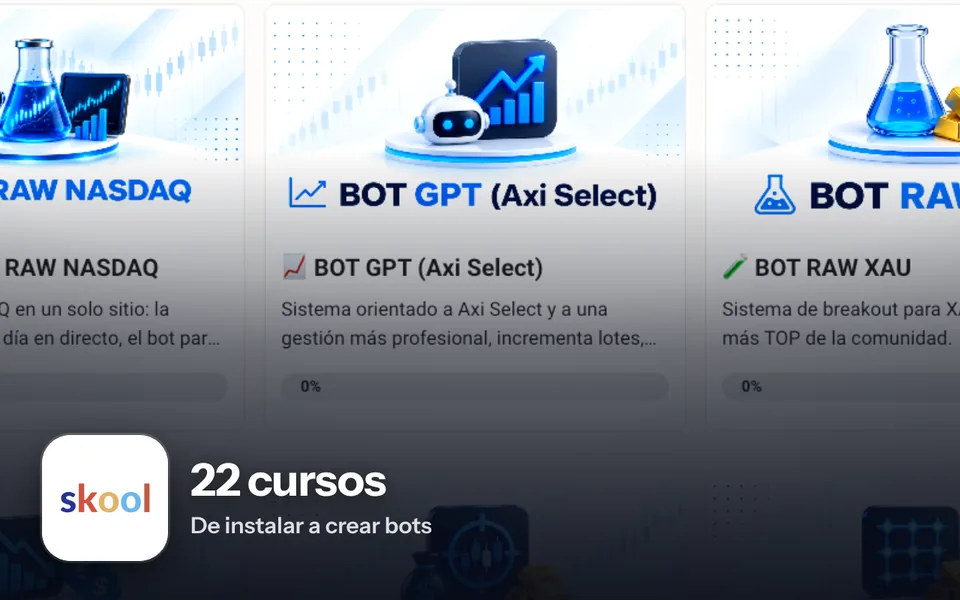
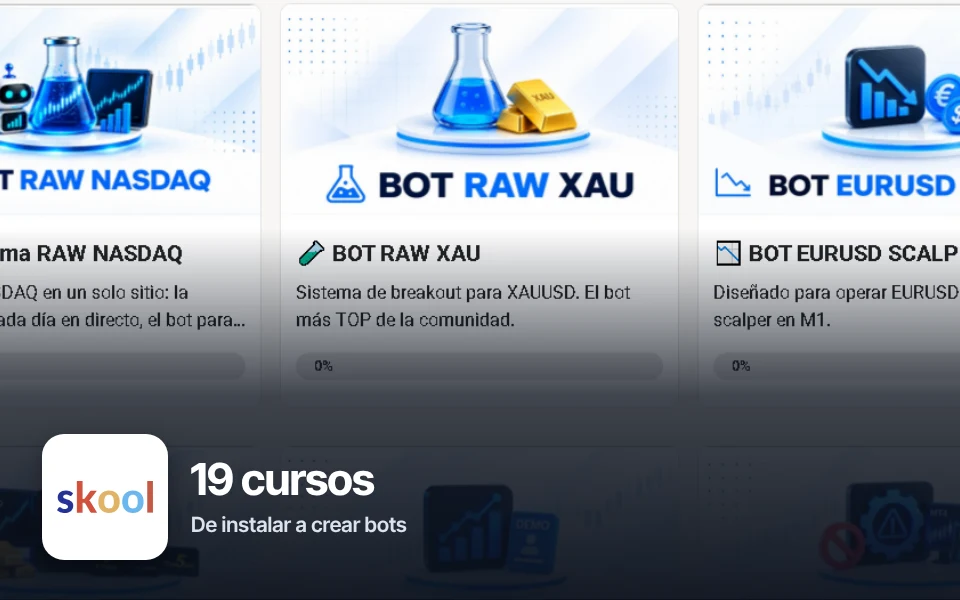
PRO: banda grande de Black Friday con cuenta atrás (solo 27–30/11); fuera BOT GPT, Grid y Sniper XAU; 7 bots y 19 cursos; tiles del aula actualizados
Claude-Session: https://claude.ai/code/session_01N3245zAzv1nKu82VpYEjgd

diff --git a/pro/index.html b/pro/index.html
@@ -4,7 +4,7 @@
     <meta charset="UTF-8">
     <meta name="viewport" content="width=device-width, initial-scale=1, viewport-fit=cover">
     <title>nico66fx PRO · Bots de trading para MetaTrader</title>
-    <meta name="description" content="Bots para MT4 y MT5 con su backtest y su manual, RAW NASDAQ PRO LIVE en directo, herramientas de análisis, 22 cursos y una comunidad privada en Skool. Sistemas automatizados reales.">
+    <meta name="description" content="Bots para MT4 y MT5 con su backtest y su manual, RAW NASDAQ PRO LIVE en directo, herramientas de análisis, 19 cursos y una comunidad privada en Skool. Sistemas automatizados reales.">
     <meta name="robots" content="index,follow">
     <link rel="canonical" href="https://nico66fx.com/pro/">
     <meta property="og:site_name" content="nico66fx PRO">
@@ -32,8 +32,8 @@
 
     <link rel="stylesheet" href="assets/v2.css">
     <link rel="stylesheet" href="assets/v3.css">
-    <link rel="stylesheet" href="assets/v4.css?v=bf1">
-    <script src="assets/v4.js?v=bf1" defer></script>
+    <link rel="stylesheet" href="assets/v4.css?v=bf2">
+    <script src="assets/v4.js?v=bf2" defer></script>
     <script src="assets/v2.js" defer></script>
     <!-- la foto del hero es lo primero que se ve: se pide cuanto antes -->
     <link rel="preload" as="image" href="assets/proto/live_grafico.webp" type="image/webp">
@@ -64,7 +64,7 @@
       "name": "¿Qué diferencia hay entre LITE y PRO?",
       "acceptedAnswer": {
         "@type": "Answer",
-        "text": "LITE es gratis: la comunidad abierta, el indicador RAW NASDAQ LITE para TradingView y la web RAW NASDAQ LITE LIVE con la compra o venta del día, la entrada y el historial en puntos. PRO incluye todo eso y además los bots para MT4 y MT5, RAW NASDAQ PRO LIVE con la gestión completa, los 22 cursos, las herramientas y el soporte por privado."
+        "text": "LITE es gratis: la comunidad abierta, el indicador RAW NASDAQ LITE para TradingView y la web RAW NASDAQ LITE LIVE con la compra o venta del día, la entrada y el historial en puntos. PRO incluye todo eso y además los bots para MT4 y MT5, RAW NASDAQ PRO LIVE con la gestión completa, los 19 cursos, las herramientas y el soporte por privado."
       }
     },
     {
@@ -281,6 +281,19 @@
 
     <main id="contenido" tabindex="-1">
 
+        <!-- Banda Black Friday: solo se ve del 27/11 00:00 al 30/11 23:59 (html[data-precios="bf"], lo pone v4.js) -->
+        <section class="bfband" data-solo="bf" aria-label="Black Friday">
+            <div class="wrap bfband__in">
+                <p class="bfband__k">Black Friday&nbsp;· hasta el lunes 30 a las 23:59</p>
+                <p class="bfband__t"><span class="bfband__p">Anual <s>199&nbsp;€</s> <strong>149&nbsp;€</strong></span><span class="bfband__p">De por vida <s>349&nbsp;€</s> <strong>249&nbsp;€</strong></span></p>
+                <p class="bfband__s">El anual, con el precio congelado mientras sigas. El de por vida, con llamada 1&nbsp;a&nbsp;1 conmigo para dejarlo todo montado. Plazas limitadas.</p>
+                <div class="bfband__cta">
+                    <a class="btn btn-primary btn--lg" href="#precio" data-evt="pro_hero_click" data-evt-cta="bf_banda">Ver planes del Black Friday</a>
+                    <span class="bfband__cd" data-bf-cd aria-live="off"></span>
+                </div>
+            </div>
+        </section>
+
         <!-- A · HERO v5: órbita con todo lo que incluye PRO, alrededor de un solo acceso -->
         <section id="inicio" class="hero hero--v5" aria-labelledby="titulo" data-evt-view="pro_page_view">
             <div class="wrap hero5">
@@ -294,7 +307,7 @@
                     </p>
                     <p class="eyebrow">nico66fx PRO</p>
                     <h1 id="titulo">Mis bots de trading, <span>listos para tu MetaTrader.</span></h1>
-                    <p class="hero__sub">Descargas los bots que he creado yo, cada uno con su manual y su vídeo de instalación. Y además tienes la web en directo de RAW NASDAQ, indicadores, 22 cursos (también para crear tus propios bots) y la comunidad en Skool.</p>
+                    <p class="hero__sub">Descargas los bots que he creado yo, cada uno con su manual y su vídeo de instalación. Y además tienes la web en directo de RAW NASDAQ, indicadores, 19 cursos (también para crear tus propios bots) y la comunidad en Skool.</p>
                     <div class="hero4__cta">
                         <a href="#precio" class="btn btn-primary btn--lg" data-evt="pro_hero_click" data-evt-cta="planes">Ver planes <svg class="ico" aria-hidden="true"><use href="#i-abajo"/></svg></a>
                         <a href="#productos" class="btn btn-secondary btn--lg" data-evt="pro_hero_click" data-evt-cta="bots">Ver los bots</a>
@@ -315,12 +328,12 @@
                         <span>un solo acceso</span>
                     </div>
                     <ul class="orbita__nodos">
-                        <li style="--a:-90deg"><a class="nodo nodo--fuerte" href="#productos"><span class="nodo__ico"><svg class="ico" aria-hidden="true"><use href="#i-bot"/></svg></span><span class="nodo__t">10 bots listos</span><span class="nodo__d">MT4 y MT5</span></a></li>
+                        <li style="--a:-90deg"><a class="nodo nodo--fuerte" href="#productos"><span class="nodo__ico"><svg class="ico" aria-hidden="true"><use href="#i-bot"/></svg></span><span class="nodo__t">7 bots listos</span><span class="nodo__d">MT4 y MT5</span></a></li>
                         <li style="--a:-45deg"><a class="nodo nodo--live" href="#live"><span class="nodo__ico"><svg class="ico" aria-hidden="true"><use href="#i-pulso"/></svg></span><span class="nodo__t">PRO LIVE</span><span class="nodo__d">El Nasdaq en directo</span></a></li>
                         <li style="--a:0deg"><a class="nodo" href="#ecosistema"><span class="nodo__ico"><svg class="ico" aria-hidden="true"><use href="#i-velas"/></svg></span><span class="nodo__t">Indicadores</span><span class="nodo__d">TradingView</span></a></li>
                         <li style="--a:45deg"><a class="nodo" href="../tools/"><span class="nodo__ico"><svg class="ico" aria-hidden="true"><use href="#i-medidor"/></svg></span><span class="nodo__t">Herramientas</span><span class="nodo__d">Para analizar backtests</span></a></li>
                         <li style="--a:90deg"><a class="nodo" href="#comunidad"><span class="nodo__ico"><svg class="ico" aria-hidden="true"><use href="#i-usuarios"/></svg></span><span class="nodo__t">Comunidad</span><span class="nodo__d">250 en Skool</span></a></li>
-                        <li style="--a:135deg"><a class="nodo" href="#ecosistema"><span class="nodo__ico"><svg class="ico" aria-hidden="true"><use href="#i-birrete"/></svg></span><span class="nodo__t">22 cursos</span><span class="nodo__d">De instalar a crear bots</span></a></li>
+                        <li style="--a:135deg"><a class="nodo" href="#ecosistema"><span class="nodo__ico"><svg class="ico" aria-hidden="true"><use href="#i-birrete"/></svg></span><span class="nodo__t">19 cursos</span><span class="nodo__d">De instalar a crear bots</span></a></li>
                         <li style="--a:180deg"><a class="nodo" href="fondeo/"><span class="nodo__ico"><svg class="ico" aria-hidden="true"><use href="#i-escudo"/></svg></span><span class="nodo__t">Fondeo</span><span class="nodo__d">Bot para cuentas de fondeo</span></a></li>
                         <li style="--a:225deg"><a class="nodo" href="helios/"><span class="nodo__ico"><svg class="ico" aria-hidden="true"><use href="#i-capas"/></svg></span><span class="nodo__t">Cartera HELIOS</span><span class="nodo__d">10 estrategias en un bot</span></a></li>
                     </ul>
@@ -330,10 +343,10 @@
             <!-- Así se ve por dentro: capturas reales de cada pieza -->
             <div class="wrap">
                 <ul class="dentro dentro--tiles" aria-label="Lo que tienes dentro de PRO">
-                    <li><a href="#productos"><img class="tile16" src="assets/proto/tiles/bots.webp" width="960" height="600" loading="lazy" decoding="async" alt="Bot RAW NASDAQ funcionando en MetaTrader 5"><span class="dentro__t">10 bots hechos por mí, para descargar</span></a></li>
+                    <li><a href="#productos"><img class="tile16" src="assets/proto/tiles/bots.webp" width="960" height="600" loading="lazy" decoding="async" alt="Bot RAW NASDAQ funcionando en MetaTrader 5"><span class="dentro__t">7 bots hechos por mí, para descargar</span></a></li>
                     <li><a href="#live"><img class="tile16" src="assets/proto/tiles/live.webp" width="960" height="600" loading="lazy" decoding="async" alt="RAW NASDAQ PRO LIVE: la operación del Nasdaq en directo"><span class="dentro__t">La operación del Nasdaq, en directo</span></a></li>
                     <li><a href="#ecosistema"><img class="tile16" src="assets/proto/tiles/tv.webp" width="960" height="600" loading="lazy" decoding="async" alt="Indicadores de nico66fx en TradingView"><span class="dentro__t">Indicadores para TradingView</span></a></li>
-                    <li><a href="#ecosistema"><img class="tile16" src="assets/proto/tiles/cursos.webp" width="960" height="600" loading="lazy" decoding="async" alt="El aula de PRO en Skool con los cursos de cada bot"><span class="dentro__t">22 cursos, también para crear tus bots</span></a></li>
+                    <li><a href="#ecosistema"><img class="tile16" src="assets/proto/tiles/cursos.webp?v=2" width="960" height="600" loading="lazy" decoding="async" alt="El aula de PRO en Skool con los cursos de cada bot"><span class="dentro__t">19 cursos, también para crear tus bots</span></a></li>
                 </ul>
             </div>
         </section>
@@ -389,21 +402,6 @@
                                 <div class="bot__cab"><h3>EURUSD Scalp</h3><span class="chip chip--aviso">Grid</span></div>
                                 <p class="bot__meta">EURUSD&nbsp;· M1&nbsp;· MT4</p>
                                 <p class="bot__txt"><strong>Es un grid:</strong> promedia posiciones sin stop loss. Riesgo alto. No apto para fondeo.</p>
-                            </li>
-                            <li class="bot">
-                                <div class="bot__cab"><h3>Sniper XAU</h3></div>
-                                <p class="bot__meta">Oro (XAUUSD)&nbsp;· MT4</p>
-                                <p class="bot__txt">Tendencia y rebotes.</p>
-                            </li>
-                            <li class="bot">
-                                <div class="bot__cab"><h3>Grid</h3></div>
-                                <p class="bot__meta">Forex&nbsp;· MT4</p>
-                                <p class="bot__txt">Opera en rangos amplios.</p>
-                            </li>
-                            <li class="bot">
-                                <div class="bot__cab"><h3>BOT GPT</h3></div>
-                                <p class="bot__meta">MT4</p>
-                                <p class="bot__txt">Orientado a Axi Select.</p>
                             </li>
                             <li class="bot">
                                 <div class="bot__cab"><h3>RAW BTC</h3><span class="chip">Beta</span></div>
@@ -545,7 +543,7 @@
                                         <li class="tarjeta card-glass" style="--i:0">
                         <div class="eco4__media eco4__media--tile"><img class="tile16" src="assets/proto/tiles/bots.webp" width="960" height="600" loading="lazy" decoding="async" alt="Bot de nico66fx funcionando en MetaTrader 5"></div>
                         <p class="tarjeta__k">Bots para MT4 y MT5</p>
-                        <h3>10 bots hechos por mí, listos para descargar</h3>
+                        <h3>7 bots hechos por mí, listos para descargar</h3>
                         <p>Cada uno con su manual, su configuración y su backtest. Oro, Nasdaq, divisas y fondeo.</p>
                         <p class="tarjeta__dato">Las versiones nuevas te llegan sin pagar más</p>
                     </li>
@@ -557,9 +555,9 @@
                         <a class="tarjeta__enlace" href="../tools/">Ver las <span class="nw">herramientas <svg class="ico" aria-hidden="true"><use href="#i-flecha"/></svg></span></a>
                     </li>
                     <li class="tarjeta card-glass" style="--i:2">
-                        <div class="eco4__media eco4__media--tile"><img class="tile16" src="assets/proto/tiles/cursos.webp" width="960" height="600" loading="lazy" decoding="async" alt="El aula de PRO en Skool"></div>
+                        <div class="eco4__media eco4__media--tile"><img class="tile16" src="assets/proto/tiles/cursos.webp?v=2" width="960" height="600" loading="lazy" decoding="async" alt="El aula de PRO en Skool"></div>
                         <p class="tarjeta__k">Formación práctica</p>
-                        <h3>22 cursos, de instalar un bot a crear el tuyo</h3>
+                        <h3>19 cursos, de instalar un bot a crear el tuyo</h3>
                         <ul class="eco4__lista">
                             <li>Instalar robots y configurar MetaTrader</li>
                             <li>VPS, backtesting y datos tick</li>
@@ -567,7 +565,7 @@
                         </ul>
                     </li>
                     <li class="tarjeta card-glass" style="--i:3">
-                        <div class="eco4__media eco4__media--tile"><img class="tile16" src="assets/proto/tiles/com.webp" width="960" height="600" loading="lazy" decoding="async" alt="La comunidad PRO en Skool"></div>
+                        <div class="eco4__media eco4__media--tile"><img class="tile16" src="assets/proto/tiles/com.webp?v=2" width="960" height="600" loading="lazy" decoding="async" alt="La comunidad PRO en Skool"></div>
                         <p class="tarjeta__k">Comunidad privada en Skool</p>
                         <h3>No te quedas solo con el archivo</h3>
                         <p>Preguntas, ayuda con la instalación, novedades y directos grabados. Y lo que comparten otros miembros.</p>
@@ -608,12 +606,12 @@
                             <h3 id="lp-pro">Comunidad PRO</h3>
                             <span class="chip chip--pro">PRO</span>
                         </div>
-                        <div class="lp-col__media lp-col__media--tile"><img class="tile16" src="assets/proto/tiles/procom.webp" width="960" height="600" loading="lazy" decoding="async" alt="El aula de la comunidad nico66fx PRO en Skool con los bots"></div>
+                        <div class="lp-col__media lp-col__media--tile"><img class="tile16" src="assets/proto/tiles/procom.webp?v=2" width="960" height="600" loading="lazy" decoding="async" alt="El aula de la comunidad nico66fx PRO en Skool con los bots"></div>
                         <ul class="lp-col__lista">
                             <li class="lp-todo"><svg class="ico" aria-hidden="true"><use href="#i-check"/></svg><strong>Todo lo de LITE, y además</strong></li>
-                            <li><svg class="ico" aria-hidden="true"><use href="#i-check"/></svg>10 bots listos para descargar, con su manual y su vídeo</li>
+                            <li><svg class="ico" aria-hidden="true"><use href="#i-check"/></svg>7 bots listos para descargar, con su manual y su vídeo</li>
                             <li><svg class="ico" aria-hidden="true"><use href="#i-check"/></svg>Web PRO LIVE: la operación entera y cada movimiento del stop</li>
-                            <li><svg class="ico" aria-hidden="true"><use href="#i-check"/></svg>22 cursos, también para crear tus propios bots</li>
+                            <li><svg class="ico" aria-hidden="true"><use href="#i-check"/></svg>19 cursos, también para crear tus propios bots</li>
                             <li><svg class="ico" aria-hidden="true"><use href="#i-check"/></svg>Soporte por privado hasta que tu bot esté funcionando</li>
                             <li><svg class="ico" aria-hidden="true"><use href="#i-check"/></svg>Versiones nuevas de los bots sin pagar más</li>
                         </ul>
@@ -697,7 +695,7 @@
                     <div class="com-video__txt">
                         <p class="eyebrow">Por dentro · 1:34</p>
                         <h3>Así es la comunidad PRO por dentro</h3>
-                        <p>El aula con los 22 cursos, los bots con su manual y su vídeo de instalación, las novedades y el feed donde se comparten pruebas y dudas.</p>
+                        <p>El aula con los 19 cursos, los bots con su manual y su vídeo de instalación, las novedades y el feed donde se comparten pruebas y dudas.</p>
                     </div>
                     <div class="video-card">
                         <video playsinline preload="none" poster="assets/video/nico66fx_PRO_por_dentro.jpg" aria-label="Vídeo: la comunidad nico66fx PRO por dentro">
@@ -777,17 +775,6 @@
                             </li>
                             <li class="captura">
                                 <figure>
-                                    <a class="captura__enlace" href="assets/skool8.jpg">
-                                        <picture>
-                                            <source type="image/webp" srcset="assets/skool8-sm.webp 640w, assets/skool8.webp 1240w" sizes="(min-width: 768px) 369px, 266px">
-                                            <img src="assets/skool8-sm.jpg" srcset="assets/skool8-sm.jpg 640w, assets/skool8.jpg 1240w" sizes="(min-width: 768px) 369px, 266px" width="640" height="486" loading="lazy" decoding="async" alt="Dany Fuentes da las gracias tras pasar el 7 % de la cuenta fondeada de Axi con BOT GPT y SNIPER XAU, y cuenta que también ha aprendido a operar en manual">
-                                        </picture>
-                                        <span class="sr"> (ver la captura ampliada)</span>
-                                    </a>
-                                </figure>
-                            </li>
-                            <li class="captura">
-                                <figure>
                                     <a class="captura__enlace" href="assets/skool10.jpg">
                                         <picture>
                                             <source type="image/webp" srcset="assets/skool10-sm.webp 640w, assets/skool10.webp 1240w" sizes="(min-width: 768px) 473px, 341px">
@@ -814,17 +801,6 @@
                                         <picture>
                                             <source type="image/webp" srcset="assets/skool14-sm.webp 640w, assets/skool14.webp 1240w" sizes="(min-width: 768px) 439px, 317px">
                                             <img src="assets/skool14-sm.jpg" srcset="assets/skool14-sm.jpg 640w, assets/skool14.jpg 1240w" sizes="(min-width: 768px) 439px, 317px" width="640" height="408" loading="lazy" decoding="async" alt="Daniel Hernandez comparte su historial con RAW XAU: lento pero seguro">
-                                        </picture>
-                                        <span class="sr"> (ver la captura ampliada)</span>
-                                    </a>
-                                </figure>
-                            </li>
-                            <li class="captura">
-                                <figure>
-                                    <a class="captura__enlace" href="assets/skool18.jpg">
-                                        <picture>
-                                            <source type="image/webp" srcset="assets/skool18-sm.webp 640w, assets/skool18.webp 1240w" sizes="(min-width: 768px) 439px, 317px">
-                                            <img src="assets/skool18-sm.jpg" srcset="assets/skool18-sm.jpg 640w, assets/skool18.jpg 1240w" sizes="(min-width: 768px) 439px, 317px" width="640" height="408" loading="lazy" decoding="async" alt="Lenny Carta cuenta que ya está en la fase semilla de Axi Select con BOT GPT">
                                         </picture>
                                         <span class="sr"> (ver la captura ampliada)</span>
                                     </a>
@@ -1041,7 +1017,7 @@
                     </details>
                     <details name="faq">
                         <summary><span>¿Qué diferencia hay entre LITE y PRO?</span><svg class="ico chev" aria-hidden="true"><use href="#i-chev"/></svg></summary>
-                        <p class="faq__resp">LITE es gratis: la comunidad abierta, el indicador RAW NASDAQ LITE para TradingView y la web RAW NASDAQ LITE LIVE con la compra o venta del día, la entrada y el historial en puntos. PRO incluye todo eso y además los bots para MT4 y MT5, RAW NASDAQ PRO LIVE con la gestión completa, los 22 cursos, las herramientas y el soporte por privado.</p>
+                        <p class="faq__resp">LITE es gratis: la comunidad abierta, el indicador RAW NASDAQ LITE para TradingView y la web RAW NASDAQ LITE LIVE con la compra o venta del día, la entrada y el historial en puntos. PRO incluye todo eso y además los bots para MT4 y MT5, RAW NASDAQ PRO LIVE con la gestión completa, los 19 cursos, las herramientas y el soporte por privado.</p>
                     </details>
                     <details name="faq">
                         <summary><span>¿En qué plataformas funcionan los bots?</span><svg class="ico chev" aria-hidden="true"><use href="#i-chev"/></svg></summary>

diff --git a/lite/index.html b/lite/index.html
@@ -184,7 +184,7 @@
                 <div>
                     <span class="chip-lite"><img src="../assets/icon-lite.jpg" alt="" width="26" height="26">Black Friday · comunidad LITE</span>
                     <h1>El precio de Black Friday de PRO, <span>antes que nadie.</span></h1>
-                    <p class="hero__sub">En PRO tienes la operación completa en directo, los bots que lo ejecutan solos, 22 cursos, herramientas y soporte conmigo. Y todo lo que vamos a sacar del ecosistema RAW, incluido.</p>
+                    <p class="hero__sub">En PRO tienes la operación completa en directo, los bots que lo ejecutan solos, 19 cursos, herramientas y soporte conmigo. Y todo lo que vamos a sacar del ecosistema RAW, incluido.</p>
 
                     <div class="cuenta" id="cuenta" aria-live="polite">
                         <p class="cuenta__t" id="cuentat">El acceso anticipado abre en:</p>
@@ -265,7 +265,7 @@
                     </article>
                     <article class="card">
                         <div class="card__img card__img--contain"><img src="assets/mt5_panel.webp" width="366" height="316" loading="lazy" alt="Panel del bot RAW NASDAQ en MetaTrader 5"></div>
-                        <p class="card__k">10 bots para MT4 y MT5</p>
+                        <p class="card__k">7 bots para MT4 y MT5</p>
                         <h3>Que lo ejecuten solos</h3>
                         <p>El bot RAW NASDAQ, oro, fondeo con DUAL XAU 2 y la cartera HELIOS H1 de 10 estrategias, ya en real. Cada uno con su manual, sus .set, su vídeo de instalación y su backtest.</p>
                     </article>
@@ -276,7 +276,7 @@
                         <p>Analizador de backtests, Monte Carlo para simular rachas, comparador de bots e indicadores de TradingView.</p>
                     </article>
                     <article class="card">
-                        <p class="card__k">22 cursos</p>
+                        <p class="card__k">19 cursos</p>
                         <h3>De instalar a crear tus propios bots</h3>
                         <p>MetaTrader desde cero, VPS 24/7, backtesting con datos tick, errores de MT4 y MT5, cuentas de fondeo y cómo crear bots con IA, StrategyQuant y MutationForge.</p>
                     </article>
@@ -329,8 +329,8 @@
                         <ul>
                             <li><strong>Todo lo de LITE, y además:</strong></li>
                             <li>RAW NASDAQ PRO LIVE con la gestión completa</li>
-                            <li>10 bots para MT4 y MT5, con manual y backtest</li>
-                            <li>22 cursos, herramientas e indicadores</li>
+                            <li>7 bots para MT4 y MT5, con manual y backtest</li>
+                            <li>19 cursos, herramientas e indicadores</li>
                             <li>Soporte por privado conmigo</li>
                             <li>Todo el ecosistema RAW que vamos a sacar</li>
                         </ul>

diff --git a/pro/assets/v4.css b/pro/assets/v4.css
@@ -259,3 +259,20 @@ body{background:var(--canvas);color:var(--ink)}
 .eco4__media--tile img{height:auto;object-fit:cover}
 .lp-col__media--tile{height:auto;background:none!important}
 .lp-col__media--tile img{position:static;width:100%;border-radius:var(--radio)}
+
+/* --- Banda Black Friday (27–30/11) ---------------------------------------- */
+.bfband{position:relative;overflow:hidden;background:#05070b;color:#fff;padding-block:clamp(28px,4.5vw,52px);border-bottom:3px solid #39ff88;box-shadow:inset 0 -60px 120px -60px rgba(57,255,136,.25)}
+.bfband:before{content:"";position:absolute;inset:-40% -10% auto auto;width:60%;height:180%;background:radial-gradient(closest-side,rgba(21,68,224,.45),transparent 70%);pointer-events:none}
+.bfband__in{position:relative;text-align:center}
+.bfband__k{display:inline-block;font-family:var(--font-mono);font-weight:700;font-size:clamp(.78rem,.7rem + .4vw,1rem);letter-spacing:.14em;text-transform:uppercase;color:#05070b;background:#ffd60a;padding:8px 16px;border-radius:999px}
+.bfband__t{display:flex;flex-wrap:wrap;justify-content:center;gap:.2em .9em;margin-top:16px;font-family:var(--font-display);font-weight:800;letter-spacing:-.03em;line-height:1.05;font-size:clamp(1.9rem,1.1rem + 3.6vw,3.9rem);text-wrap:balance}
+.bfband__p{white-space:nowrap}
+.bfband__t s{font-weight:600;font-size:.55em;color:#8b93a1;text-decoration-color:#ff3b4e;text-decoration-thickness:.12em;margin:0 .15em}
+.bfband__t strong{color:#39ff88;text-shadow:0 0 18px rgba(57,255,136,.55),0 0 50px rgba(57,255,136,.3)}
+.bfband__s{max-width:62ch;margin:14px auto 0;font-size:clamp(.95rem,.9rem + .3vw,1.125rem);line-height:1.55;color:#cdd8f3}
+.bfband__cta{display:flex;flex-wrap:wrap;justify-content:center;align-items:center;gap:12px 18px;margin-top:20px}
+.bfband__cd{font-family:var(--font-mono);font-weight:700;font-size:clamp(.85rem,.8rem + .3vw,1.05rem);letter-spacing:.06em;color:#ffd60a}
+.bfband__cd:empty{display:none}
+html[data-precios="bf"] .hero__precio{font-size:1.15rem}
+html[data-precios="bf"] .bfband{padding-top:calc(var(--topbar-h) + env(safe-area-inset-top) + clamp(18px,3vw,34px))}
+html[data-precios="bf"] .hero{padding-top:clamp(8px,2vw,24px)}

diff --git a/pro/assets/v4.js b/pro/assets/v4.js
@@ -100,5 +100,24 @@
         }
     }
 
-    if (doc.readyState === 'loading') doc.addEventListener('DOMContentLoaded', init); else init();
+
+    /* Cuenta atrás de la banda de Black Friday (hasta BF.fin) */
+    function cuentaAtras() {
+        var els = doc.querySelectorAll('[data-bf-cd]');
+        if (!els.length) return;
+        function pinta() {
+            var ms = BF.fin - Date.now();
+            var txt = '';
+            if (ms > 0 && root.getAttribute('data-precios') === 'bf') {
+                var m = Math.floor(ms / 60000), d = Math.floor(m / 1440), h = Math.floor((m % 1440) / 60), mi = m % 60;
+                txt = 'Quedan ' + (d ? d + ' d ' : '') + h + ' h ' + mi + ' min';
+            }
+            els.forEach(function (e) { e.textContent = txt; });
+        }
+        pinta();
+        setInterval(pinta, 30000);
+    }
+
+    function arranca() { init(); cuentaAtras(); }
+    if (doc.readyState === 'loading') doc.addEventListener('DOMContentLoaded', arranca); else arranca();
 })();

diff --git a/index.html b/index.html
@@ -625,7 +625,7 @@
 
       <!-- Testimonios -->
       <h2 class="section-title">Testimonios y resultados</h2>
-      <a href="pro/#social" style="display:block" aria-label="Ver las 24 capturas de miembros de nico66fx PRO">
+      <a href="pro/#social" style="display:block" aria-label="Ver las capturas de miembros de nico66fx PRO">
         <div class="carousel">
           <figure class="slide" style="margin:0"><img src="assets/testi-1.png" alt="Mensaje publicado por un miembro de la comunidad de nico66fx" loading="lazy" /></figure>
           <figure class="slide" style="margin:0"><img src="assets/testi-2.png" alt="Mensaje publicado por un miembro de la comunidad de nico66fx" loading="lazy" /></figure>
